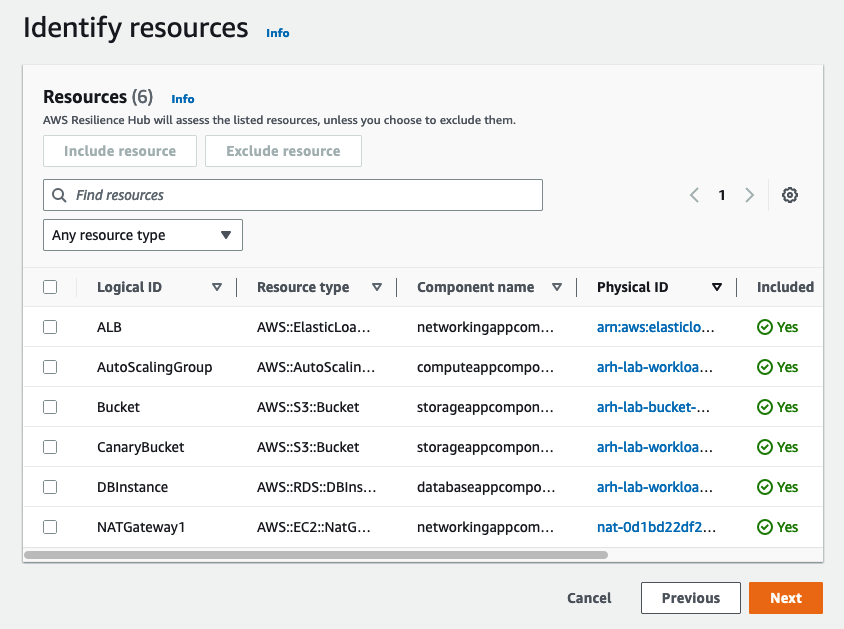
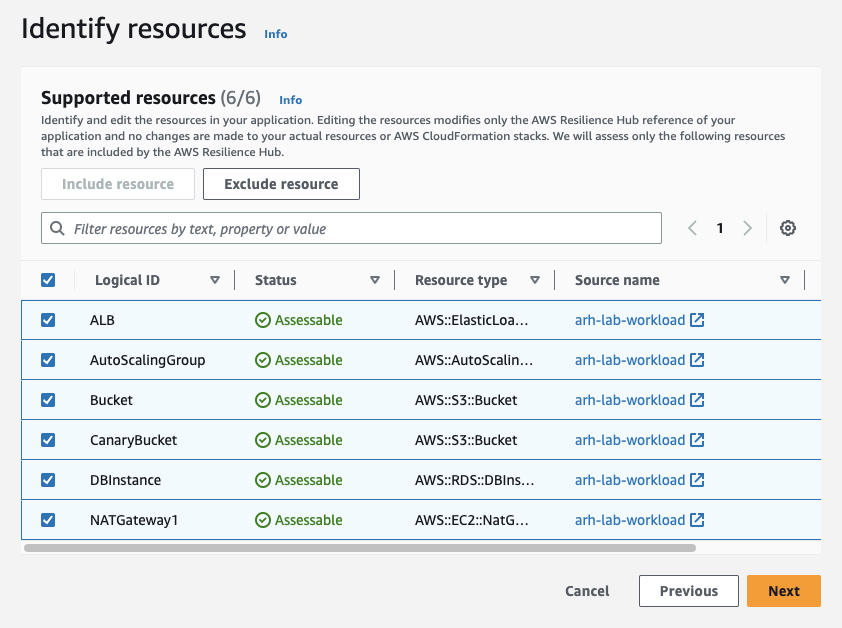
[FIXED] Screenshots fixed in lab 1, step1

diff --git a/ko-KR/lab1/2-Add-and-Assess-Application.md b/ko-KR/lab1/2-Add-and-Assess-Application.md
@@ -25,7 +25,7 @@ RTO/RPO 대상에 따라 사용자 지정 정책을 만들 수도 있지만 이 
 
 ## [어플리케이션 추가](https://catalog.workshops.aws/aws-resilience-hub-lab/en-US/prepare-and-protect/2-add-app-to-arh#adding-the-application)
 
-1.  [Resilience Hub 콘솔](https://console.aws.amazon.com/resiliencehub/) 의 주 메뉴로 돌아가서 **Add application**을 선택합니다.
+1.  [Resilience Hub 콘솔](https://console.aws.amazon.com/resiliencehub/) 의 주 메뉴로 돌아가서 **Applications > Add application**을 선택합니다.
 
 2.  응용 프로그램 이름으로 다음을 입력합니다.
 ```
@@ -34,32 +34,33 @@ myWebApp
 
 3.  **"How is this application managed?"** 를 클릭하고 **"Resource collections"** 을 선택한 다음 **"Add Resource collections"** 밑의 **"Choose based on CloudFormation stack"** 을 선택합니다.
 
-4.  **"Select stacks"** 에서 **arh-lab-workload**를 선택합니다. Resilience Hub는 CloudFormation 스택 외에도 리소스 그룹, AppRegistry, Terraform 상태 파일, EKS 클러스터 및 Resilience Hub 내에 정의된 기존 애플리케이션으로부터 [리소스 가져오기](https://docs.aws.amazon.com/resilience-hub/latest/userguide/discover-structure.html)를 지원합니다.
+4.  **"Select stacks"** 에서 **arh-lab-workload**를 선택합니다. Resilience Hub는 CloudFormation 스택 외에도 리소스 그룹, AppRegistry, Terraform 상태 파일, EKS 클러스터 및 Resilience Hub 내에 정의된 기존 애플리케이션으로부터 [리소스 가져오기](https://docs.aws.amazon.com/resilience-hub/latest/userguide/discover-structure.html)를 지원합니다.<br>
 ![Discover Stacks](../images/lab1/DiscoverApplication.png)
 
-5.  **"Scheduled assessment"** 에서 예약된 평가를 비활성화 시키기 위해 **"Disable"** 토글을 클릭합니다. 이 작업은 현재 실습에서만 사용하지 않도록 설정되었으며 프로덕션 워크로드에 대해서는 사용하도록 설정하는 것이 좋습니다. **Next**를 클릭합니다
+5.  **"Scheduled assessment"** 에서 예약된 평가를 비활성화 시키기 위해 **"Active"** 상태를 토클하여 **"Disable"**로 토글합니다. 이 작업은 현재 실습에서만 사용하지 않도록 설정되었으며 프로덕션 워크로드에 대해서는 사용하도록 설정하는 것이 좋습니다. **Next**를 클릭합니다
 
-6.  **"Identify resource"** 페이지에서 복원력 평가에서 제외할 리소스를 선택할 수 있습니다. 이 워크숍에서는 모든 리소스(기본적으로 추가되고 Included 열에 표시됨)를 포함합니다 . 이러한 리소스는 **arh-lab-workload** CloudFormation 스택의 일부로 생성된 것과 동일한 리소스입니다. **Next**를 클릭합니다.
+6.  **"Identify resource"** 페이지에서 복원력 평가에서 제외할 리소스를 선택할 수 있습니다. 이 워크숍에서는 모든 리소스를 포함합니다 . 이러한 리소스는 **arh-lab-workload** CloudFormation 스택의 일부로 생성된 것과 동일한 리소스입니다. **Next**를 클릭합니다.<br>
 ![WordPress Resources](../images/lab1/IdentifyResources.png)
 
-7.  그런 다음 **"Select policy"** 페이지에서 이전에 만든 **ARH-lab** 정책을 선택하고 **Next**를 클릭합니다.
+7.  그런 다음 **"Select policy"** 페이지에서 이전에 만든 **ARH-lab** 정책을 선택하고 **Next**를 클릭합니다.<br>
 ![Policy Selection](../images/lab1/SelectPolicy.png)
 
 8.  마지막 페이지는 검토 페이지이며, 세부 정보를 확인한 후 **"Publish"** 를 선택합니다.
 
 ## [워크로드 복원력 평가](https://catalog.workshops.aws/aws-resilience-hub-lab/en-US/prepare-and-protect/2-add-app-to-arh#assessing-workload-resilience)
 
-응용 프로그램이 게시되면 응용 프로그램에 대해 Resilience Hub에서 설명하는 워크플로를 기록해 둡니다.
+응용 프로그램이 게시되면 응용 프로그램에 대해 Resilience Hub에서 워크플로 단계를 기록해 둡니다.<br>
 ![Assess](../images/lab1/Assess.png)
 
-1.  **"Assess resiliency"** 를 클릭하고 보고서 이름을 입력한 다음 **"Run"** 을 수행합니다. 이제 Resilience Hub는 애플리케이션의 복원력을 평가하고 복원력 정책을 만들 때 정의된 대상과 비교합니다.
+1.  **"Assess resiliency"** 를 클릭하고 보고서 이름을 입력한 다음 **"Run"** 을 수행합니다. **Report name** 항목은 그대로 받아들여도 됩니다. 이제 Resilience Hub는 애플리케이션의 복원력을 평가하고 복원력 정책을 만들 때 정의된 대상과 비교합니다.
 
 2.  그런 다음 **"Assessments"** 탭이 자동으로 선택되어야 하며, **Success**로 이동하기 전에 상태가 잠시 **Pending**으로 변하는 것을 볼 수 있습니다.
 
 3.  평가가 완료되고 상태가 성공 (**Success**)으로 변경되면 보고서의 준수 상태 (**Compliance status**)를 확인합니다. 정책 위반 (**Policy breach**)가 있음을 알 수 있습니다
 
-평가를 완료한 후 Resilience Hub는 복원력 목표를 현재 아키텍처로 충족할 수 없다고 결정했습니다. 즉, 인시던트가 발생하는 경우 평가에 사용되는 정책에 정의된 <u>**RTO 및 RPO 내에서**</u> 애플리케이션을 복구할 수 없습니다 .
-계속 진행하기 전에 아키텍처가 어떻게 이 문제를 일으켰는지 생각해 보십시오.
+평가를 완료한 후 Resilience Hub는 복원력 목표를 현재 아키텍처로 충족할 수 없다고 결정했습니다. 즉, 인시던트가 발생하는 경우 평가에 사용되는 정책에 정의된 <u>***RTO 및 RPO 내에서***</u> 애플리케이션을 복구할 수 없습니다 .
+계속 진행하기 전에 아키텍처가 어떻게 이 문제를 일으켰는지 생각해 보십시오.<br>
+![Policy Breach](../images/lab1/PolicyBreach-Lab1-Step2.png)
 
 <hr>
 
